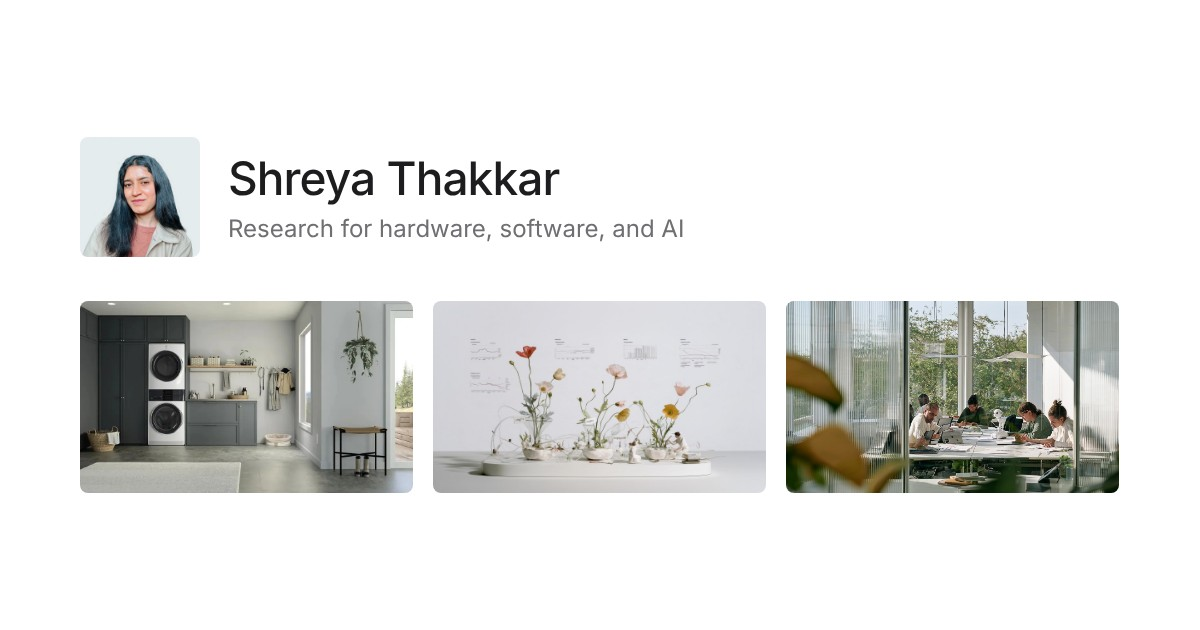
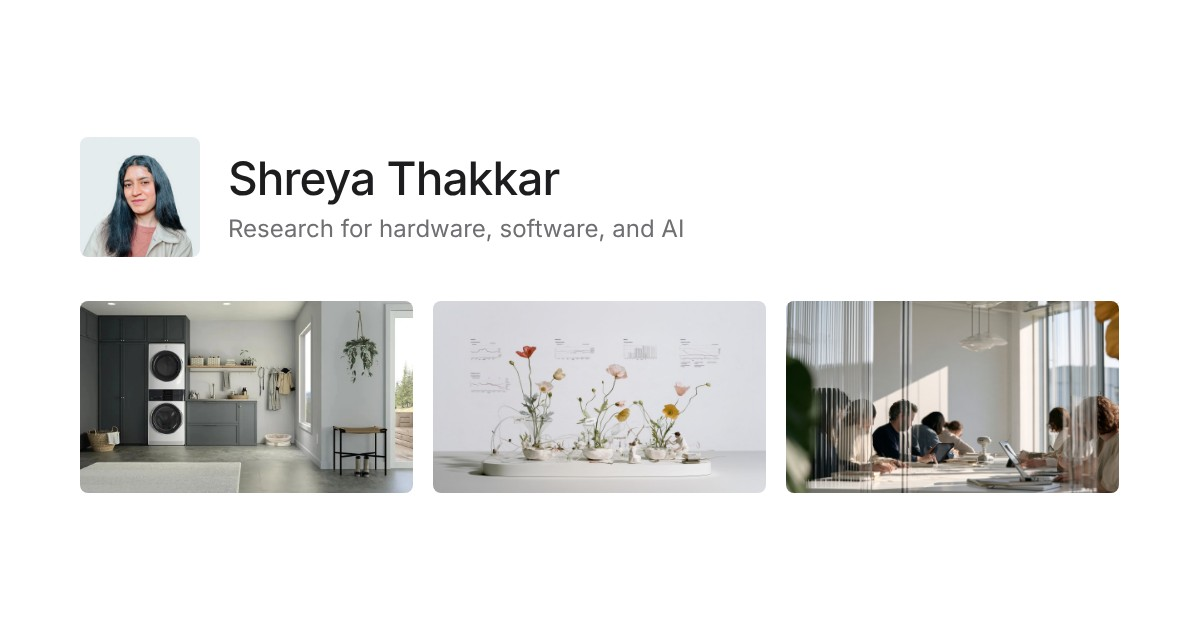
Learning with AI in 2045: sunlit room card image, link preview updated
Claude-Session: https://claude.ai/code/session_01Lm7r7cV3HyFpYTXVTJFEe1

Changed region(s): [[0.6475, 0.4524, 0.9558, 0.7841]]

diff --git a/independent-research.html b/independent-research.html
@@ -133,7 +133,7 @@ footer .sig span{font-family:'Over the Rainbow',cursive;font-size:14px;color:#3a
   <section id="work" aria-label="Independent research">
     <div class="work">
       <a class="card" href="projects/productive-friction.html">
-        <span class="thumb thumb-photo"><img src="images/card-learning-2045.jpg?v=4" alt="" loading="lazy"></span>
+        <span class="thumb thumb-photo"><img src="images/card-learning-2045.jpg?v=5" alt="" loading="lazy"></span>
         <div class="body">
           <p class="eb">Education</p><h3>Learning with AI in 2045</h3>
           <p>Imagining embodied AI beyond chatbots.</p>

diff --git a/index.html b/index.html
@@ -187,7 +187,7 @@ footer .sig span{font-family:'Over the Rainbow',cursive;font-size:14px;color:#3a
     <h2 class="org">Independent research</h2>
     <div class="work">
       <a class="card" href="projects/productive-friction.html">
-        <span class="thumb thumb-photo"><img src="images/card-learning-2045.jpg?v=4" alt="" loading="lazy"></span>
+        <span class="thumb thumb-photo"><img src="images/card-learning-2045.jpg?v=5" alt="" loading="lazy"></span>
         <div class="body">
           <p class="eb">Education</p><h3>Learning with AI in 2045</h3>
           <p>Imagining embodied AI beyond chatbots.</p>
